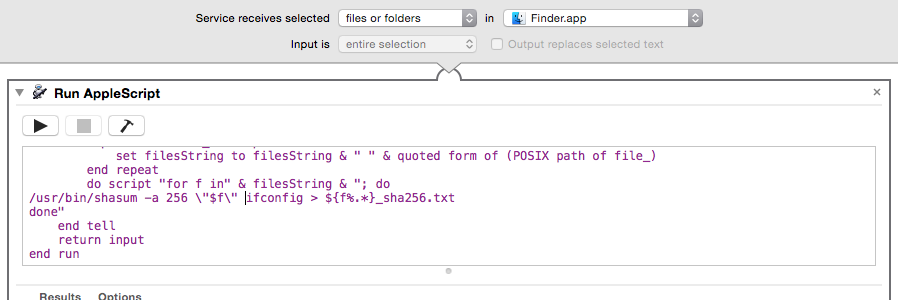
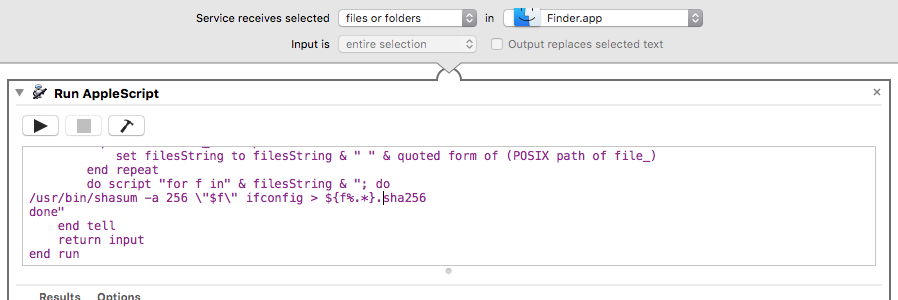
Updated Workflows & Instructions
Updated workflows: Added BagIt-Verify. Modified SHA256 to save files as
originalfilename.sha256. Modified MD5 to save files as
originalfilename.md5. Added install instructions for BagIt-SHA256 and
BagIt-Verify.

diff --git a/README.md b/README.md
@@ -15,7 +15,7 @@ Please note that most workflows are using third-party scripts, the default path 
 ### Available Workflows
 #####BagBatch 
 
-This workflow builds upon the bagbatch.py script from [Carleton Archives] (https://github.com/CarletonArchives/BagBatch) and requires that BagIt be installed as well as Python. Again, Homebrew is the best way to install both of these. This workflow also requires that the assets to be bagged exist in subdirectories. If you have a lot of files then the files-into-folders workflow below should help with that. 
+This workflow builds upon the bagbatch.py script from [Carleton Archives] (https://github.com/CarletonArchives/BagBatch) and requires that BagIt be installed as well as Python. This workflow will ask you to locate your BagIt install the first time you use it. This workflow also requires that the assets to be bagged exist in subdirectories. If you have a lot of files then the files-into-folders workflow below should help with that. 
 
 [![IMAGE ALT TEXT HERE](https://dl.dropboxusercontent.com/u/2070498/files/2.png)](https://youtu.be/f5mIuS3_5Fg)
 
@@ -29,7 +29,11 @@ The FFmpeg framemd5 format used to decode input audiovisual data to produce o
 
 #####BagIt-SHA256
 
-BagIt is a hierarchical file packaging format designed to support disk-based storage and network transfer of arbitrary digital content. This workflow opts for the SHA256 algorithm since it's stronger against random and deliberate collisions when compared to MD5. SHA256 is more ideal for video files.
+BagIt is a hierarchical file packaging format designed to support disk-based storage and network transfer of arbitrary digital content. This workflow opts for the SHA256 algorithm since it's stronger against random and deliberate collisions when compared to MD5. SHA256 is more ideal for video files. This workflow depends on bagit.py living in /usr/local/bin/.
+
+#####BagIt-Verify
+
+BagIt is a hierarchical file packaging format designed to support disk-based storage and network transfer of arbitrary digital content. This workflow verifies bags. This workflow depends on bagit.py living in /usr/local/bin/.
 
 #####CRC (Cyclic Redundancy Check) Testing Format
 
@@ -57,10 +61,10 @@ This workflow moves files into appropriately named folders.
 
 #####SHA256
 
-Secure cryptographic hash function. With an output hash value of 256 bits, SHA-256 requires more relative time to compute for a given number of processing cycles CPU and processing time than MD5. This workflow results in a plain text file (orignalfilename_sha256.txt) in the same directory as original file.
+Secure cryptographic hash function. With an output hash value of 256 bits, SHA-256 requires more relative time to compute for a given number of processing cycles CPU and processing time than MD5. This workflow results in a plain text file (orignalfilename.sha256) in the same directory as original file.
 
 
 #####MD5
 
-The MD5 message-digest algorithm is a widely used cryptographic hash function producing a 128-bit (16-byte) hash value, typically expressed in text format as a 32 digit hexadecimal number. This workflow results in a plain text file (orignalfilename_md5.txt) in the same directory as original file.
+The MD5 message-digest algorithm is a widely used cryptographic hash function producing a 128-bit (16-byte) hash value, typically expressed in text format as a 32 digit hexadecimal number. This workflow results in a plain text file (orignalfilename.md5) in the same directory as original file.
 
